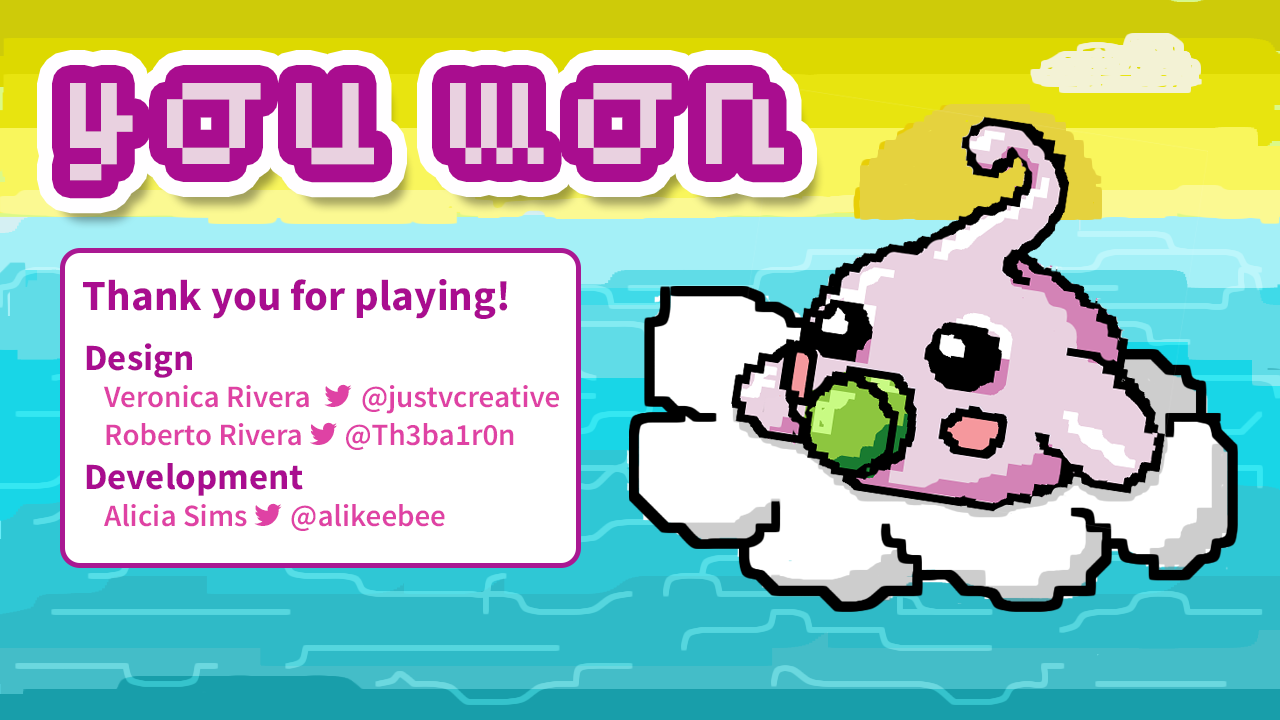
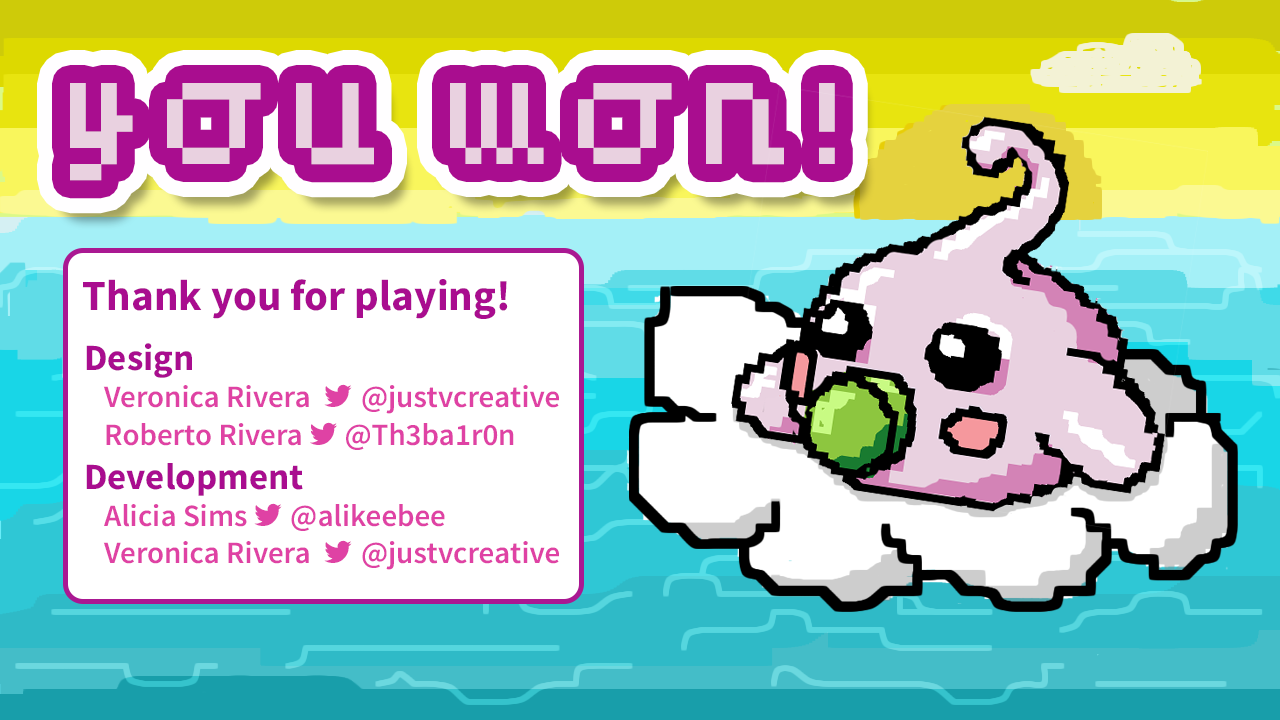
fixed text and win screen

Changed region(s): [[0.0312, 0.3361, 0.4688, 0.8556], [0.5938, 0.0611, 0.6875, 0.3056]]

diff --git a/src/js/guppi.js b/src/js/guppi.js
@@ -56,7 +56,7 @@ var mainState = {
 
         // score
         
-        scoreText = game.add.text(370, 20, 'Nom or Be Nommed', { font: "60px Arial", fill: "#ffffff" });  
+        scoreText = game.add.text(60, 20, 'Nom or Be Nommed', { font: "60px Arial", fill: "#ffffff" });  
 
         // Add the jump sound
         this.jumpSound = game.add.audio('jump');
@@ -183,7 +183,7 @@ var winState = {
     
     create: function(){
         game.add.tileSprite(0,0,1280,720, 'winImage');
-        var startLabel = game.add.text(80, 600, 'Press \'W\' to Play Again', {font: '50px Arial', fill: '#ffffff'});
+        var startLabel = game.add.text(80, 625, 'Press \'W\' to Play Again', {font: '50px Arial', fill: '#ffffff'});
         var wKey = game.input.keyboard.addKey(Phaser.Keyboard.W);
         wKey.onDown.addOnce(this.restart, this)
     },
